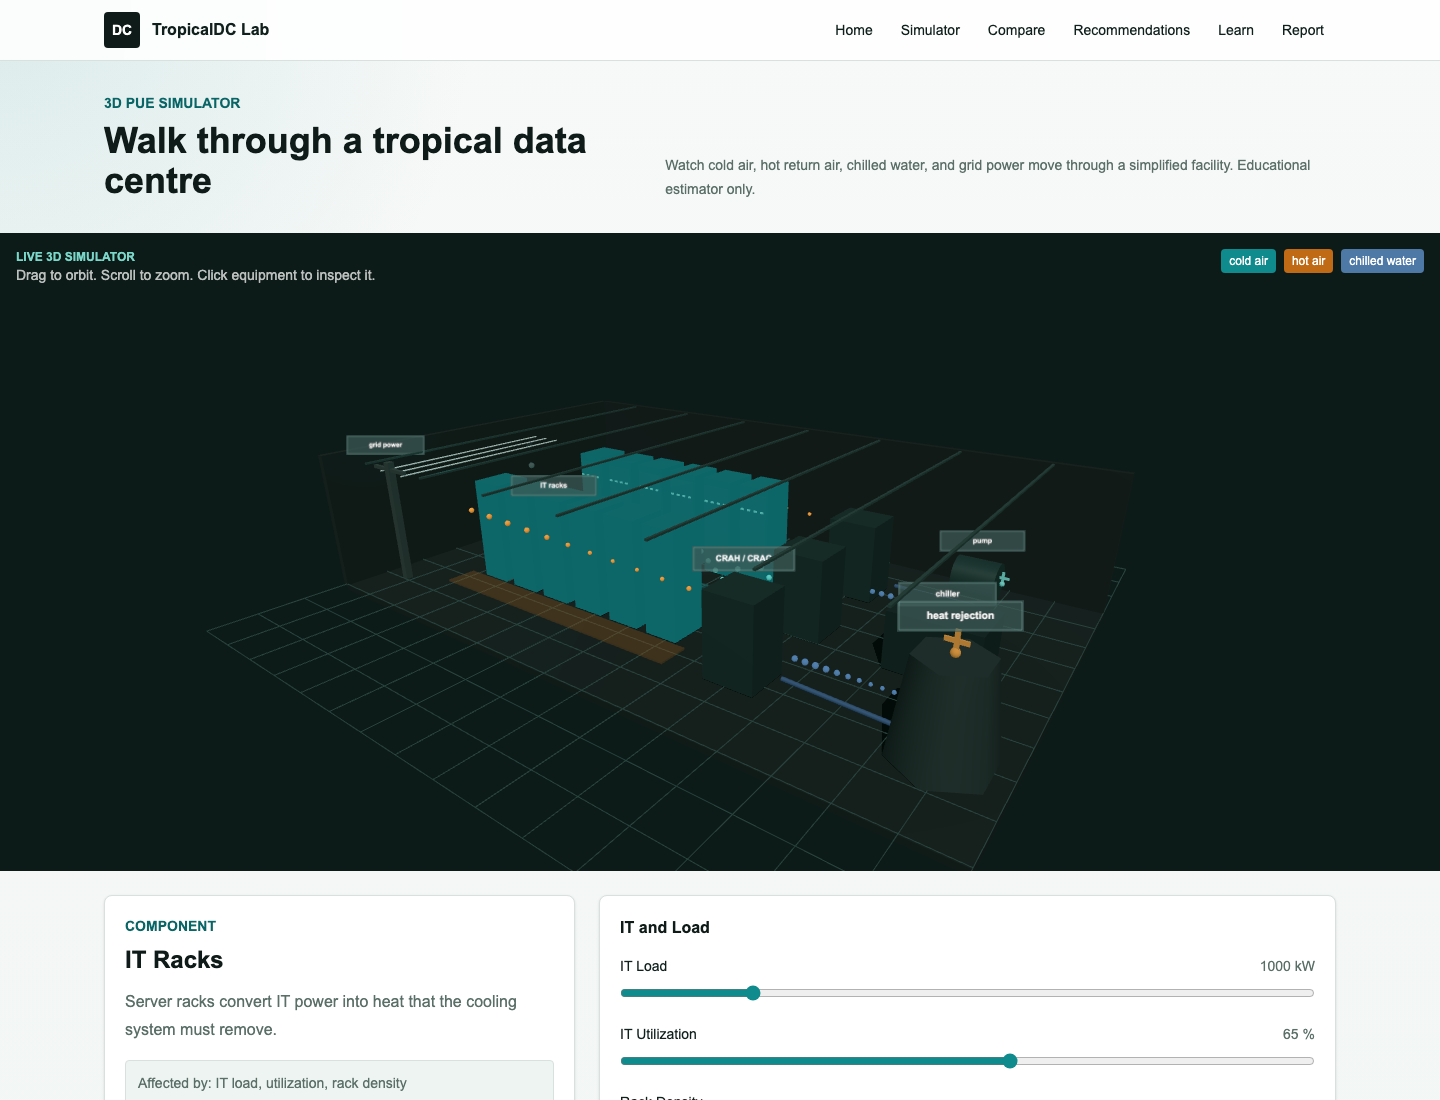
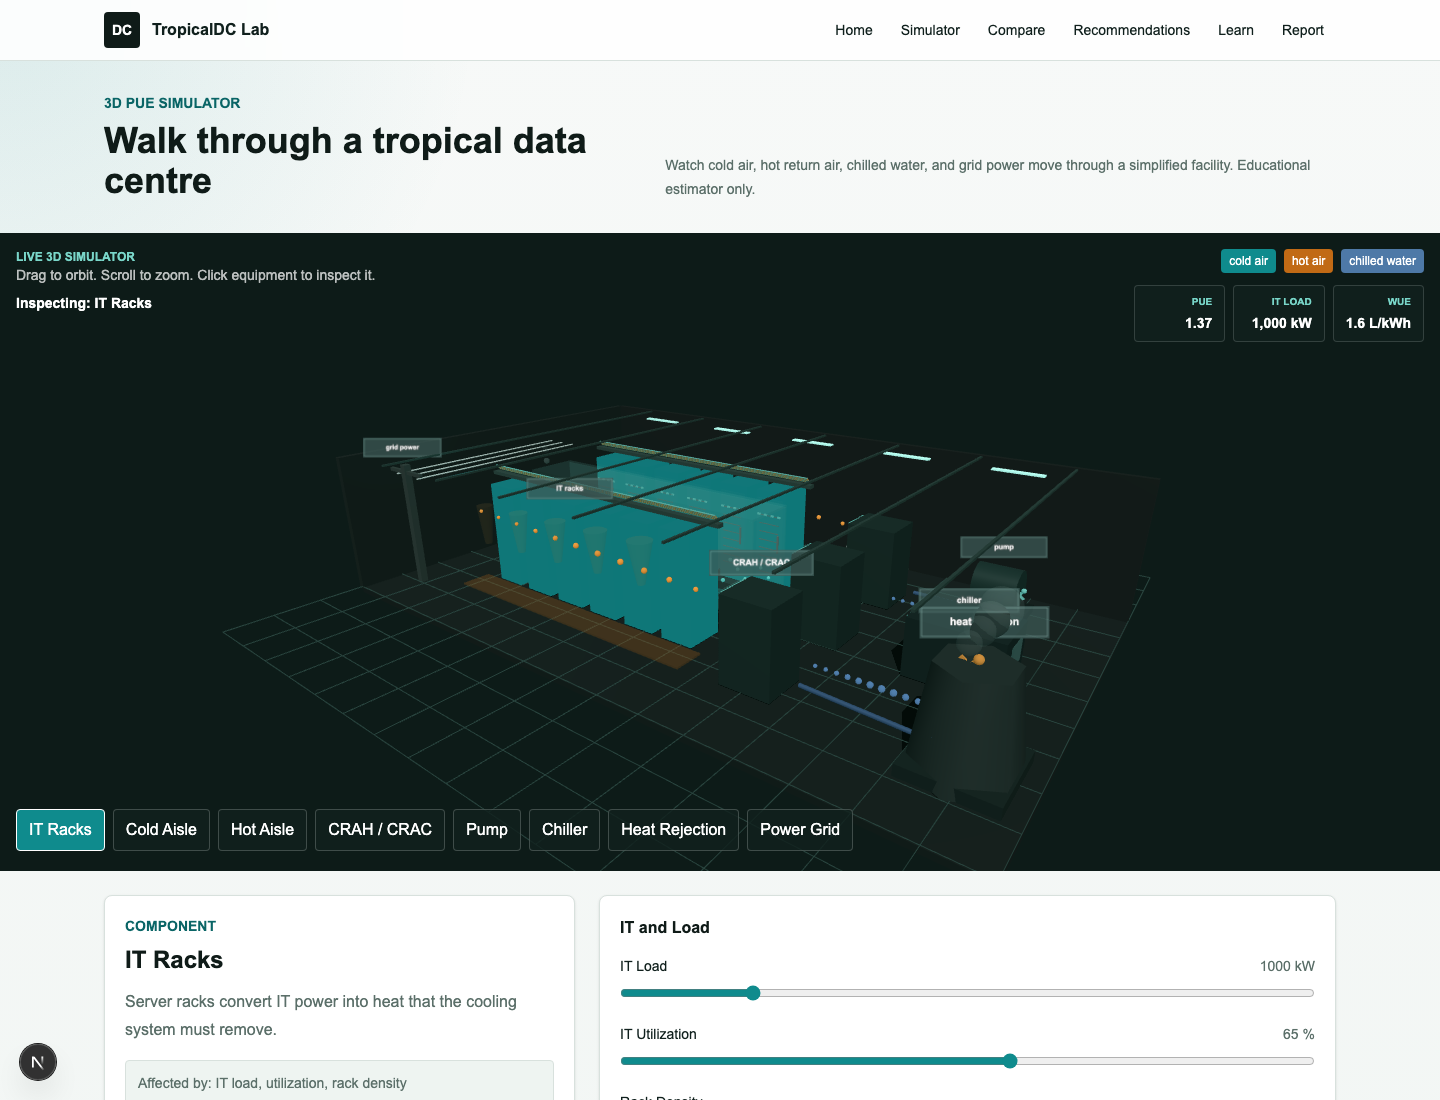
feat: refine 3d simulator experience

diff --git a/components/simulator/DataCenter3DScene.tsx b/components/simulator/DataCenter3DScene.tsx
@@ -3,8 +3,9 @@
 import { useEffect, useRef } from "react";
 import * as THREE from "three";
 import { OrbitControls } from "three/examples/jsm/controls/OrbitControls.js";
+import { formatKw, formatNumber } from "@/lib/format";
 import type { SimulationInputs, SimulationOutputs } from "@/lib/types";
-import type { ComponentKey } from "@/components/simulator/DataCenterSchematic";
+import { schematicComponents, type ComponentKey } from "@/components/simulator/DataCenterSchematic";
 
 interface DataCenter3DSceneProps {
   activeKey: ComponentKey;
@@ -138,6 +139,8 @@ export function DataCenter3DScene({ activeKey, inputs, outputs, onSelect }: Data
     frameCamera();
 
     let lastTime = performance.now() / 1000;
+    let focusedKey = activeKeyRef.current;
+    let focusUntil = lastTime + 0.8;
     let frameId = 0;
 
     const animate = () => {
@@ -146,6 +149,17 @@ export function DataCenter3DScene({ activeKey, inputs, outputs, onSelect }: Data
       lastTime = elapsed;
       const loadRatio = THREE.MathUtils.clamp(inputsRef.current.itLoadKw / 5000, 0.25, 1);
       const puePressure = THREE.MathUtils.clamp(outputsRef.current.pue - 1, 0.15, 0.8);
+
+      if (activeKeyRef.current !== focusedKey) {
+        focusedKey = activeKeyRef.current;
+        focusUntil = elapsed + 1.25;
+      }
+
+      if (elapsed < focusUntil) {
+        const preset = getCameraPreset(focusedKey, mount.clientWidth < 640);
+        camera.position.lerp(preset.position, 0.06);
+        controls.target.lerp(preset.target, 0.08);
+      }
 
       fans.forEach((fan) => {
         fan.rotation.z += delta * (3 + loadRatio * 8);
@@ -216,18 +230,44 @@ export function DataCenter3DScene({ activeKey, inputs, outputs, onSelect }: Data
     };
   }, []);
 
+  const activeComponent = schematicComponents.find((component) => component.key === activeKey) ?? schematicComponents[0];
+
   return (
     <div className="relative overflow-hidden bg-[#0d1b18]">
       <div className="pointer-events-none absolute left-4 right-4 top-4 z-10 flex items-start justify-between gap-3 text-white">
         <div>
           <p className="text-xs font-semibold uppercase text-[#79d6c9]">Live 3D simulator</p>
           <p className="text-sm text-white/72">Drag to orbit. Scroll to zoom. Click equipment to inspect it.</p>
+          <p className="mt-2 text-sm font-semibold text-white">Inspecting: {activeComponent.label}</p>
         </div>
-        <div className="hidden gap-2 text-xs md:flex">
-          <span className="rounded bg-[#0f8b8d] px-2 py-1">cold air</span>
-          <span className="rounded bg-[#c16a15] px-2 py-1">hot air</span>
-          <span className="rounded bg-[#4e79a7] px-2 py-1">chilled water</span>
+        <div className="hidden flex-col items-end gap-3 md:flex">
+          <div className="flex gap-2 text-xs">
+            <span className="rounded bg-[#0f8b8d] px-2 py-1">cold air</span>
+            <span className="rounded bg-[#c16a15] px-2 py-1">hot air</span>
+            <span className="rounded bg-[#4e79a7] px-2 py-1">chilled water</span>
+          </div>
+          <div className="grid grid-cols-3 gap-2 text-right">
+            <SceneMetric label="PUE" value={formatNumber(outputs.pue, 2)} />
+            <SceneMetric label="IT Load" value={formatKw(outputs.itPowerKw)} />
+            <SceneMetric label="WUE" value={`${formatNumber(outputs.wueLitresPerKwh, 1)} L/kWh`} />
+          </div>
         </div>
+      </div>
+      <div className="absolute bottom-4 left-4 right-4 z-10 flex gap-2 overflow-x-auto pb-1">
+        {schematicComponents.map((component) => (
+          <button
+            className={`shrink-0 rounded border px-3 py-2 text-xs font-semibold text-white transition ${
+              activeKey === component.key
+                ? "border-white bg-[var(--accent)]"
+                : "border-white/20 bg-[#10201d]/80 hover:border-white/60"
+            }`}
+            key={component.key}
+            onClick={() => onSelect(component.key)}
+            type="button"
+          >
+            {component.label}
+          </button>
+        ))}
       </div>
       <div
         aria-label="Interactive 3D tropical data centre simulator"
@@ -236,6 +276,54 @@ export function DataCenter3DScene({ activeKey, inputs, outputs, onSelect }: Data
       />
     </div>
   );
+}
+
+function SceneMetric({ label, value }: { label: string; value: string }) {
+  return (
+    <div className="rounded border border-white/15 bg-[#10201d]/80 px-3 py-2">
+      <p className="text-[10px] font-semibold uppercase text-[#79d6c9]">{label}</p>
+      <p className="mt-1 text-sm font-semibold text-white">{value}</p>
+    </div>
+  );
+}
+
+function getCameraPreset(key: ComponentKey, compact: boolean) {
+  const presets: Record<ComponentKey, { position: THREE.Vector3; target: THREE.Vector3 }> = {
+    racks: {
+      position: new THREE.Vector3(7.8, 5.9, compact ? 17 : 11.5),
+      target: new THREE.Vector3(-2.5, 1.35, 0.2),
+    },
+    coldAisle: {
+      position: new THREE.Vector3(4.6, 4.8, compact ? 14 : 8.8),
+      target: new THREE.Vector3(-2.4, 1.15, 0),
+    },
+    hotAisle: {
+      position: new THREE.Vector3(4.4, 5.2, compact ? -13 : -8.6),
+      target: new THREE.Vector3(-2.3, 1.35, -2.45),
+    },
+    crah: {
+      position: new THREE.Vector3(8.2, 4.7, compact ? 10 : 6.2),
+      target: new THREE.Vector3(2.55, 1.05, 0),
+    },
+    pump: {
+      position: new THREE.Vector3(8.6, 4.4, compact ? -8 : -5.2),
+      target: new THREE.Vector3(5.2, 0.9, -2.6),
+    },
+    chiller: {
+      position: new THREE.Vector3(9.4, 4.6, compact ? 4.8 : 2.8),
+      target: new THREE.Vector3(5.4, 0.85, 0),
+    },
+    tower: {
+      position: new THREE.Vector3(9.5, 4.9, compact ? 9 : 5.8),
+      target: new THREE.Vector3(6.4, 1.2, 2.6),
+    },
+    grid: {
+      position: new THREE.Vector3(-1.8, 5.1, compact ? 12 : 8),
+      target: new THREE.Vector3(-6.7, 1.5, 3.4),
+    },
+  };
+
+  return presets[key];
 }
 
 function buildRoom(scene: THREE.Scene) {
@@ -250,6 +338,20 @@ function buildRoom(scene: THREE.Scene) {
   const grid = new THREE.GridHelper(15, 15, 0x6aa69b, 0x28433d);
   grid.position.y = 0.01;
   scene.add(grid);
+
+  const tileMaterial = new THREE.MeshStandardMaterial({ color: 0x213a34, roughness: 0.68, metalness: 0.08 });
+  const ventMaterial = new THREE.MeshStandardMaterial({ color: 0x0f8b8d, emissive: 0x0f8b8d, emissiveIntensity: 0.18 });
+  for (let x = -5.8; x <= 1.8; x += 1.1) {
+    const tile = new THREE.Mesh(new THREE.BoxGeometry(0.86, 0.018, 0.86), tileMaterial.clone());
+    tile.position.set(x, 0.035, 0);
+    scene.add(tile);
+
+    for (let slot = -0.24; slot <= 0.24; slot += 0.16) {
+      const vent = new THREE.Mesh(new THREE.BoxGeometry(0.08, 0.012, 0.54), ventMaterial.clone());
+      vent.position.set(x + slot, 0.052, 0);
+      scene.add(vent);
+    }
+  }
 
   const backWall = new THREE.Mesh(
     new THREE.BoxGeometry(15, 3.2, 0.14),
@@ -276,6 +378,14 @@ function buildRoom(scene: THREE.Scene) {
     rail.position.set(i, 3.15, 0);
     ceilingRails.add(rail);
   }
+  for (let i = -5; i <= 5; i += 2.5) {
+    const light = new THREE.Mesh(
+      new THREE.BoxGeometry(1.1, 0.035, 0.16),
+      new THREE.MeshStandardMaterial({ color: 0xe5fff8, emissive: 0x79d6c9, emissiveIntensity: 0.7 }),
+    );
+    light.position.set(i, 3.08, -3.65);
+    ceilingRails.add(light);
+  }
   scene.add(ceilingRails);
 }
 
@@ -299,6 +409,22 @@ function buildRackRows(scene: THREE.Scene, register: (object: THREE.Object3D, ke
       register(door, "racks");
       rack.add(door);
 
+      for (let slatIndex = 0; slatIndex < 8; slatIndex += 1) {
+        const slat = new THREE.Mesh(
+          new THREE.BoxGeometry(0.52, 0.018, 0.018),
+          new THREE.MeshStandardMaterial({ color: 0x6f8881, emissive: 0x0f8b8d, emissiveIntensity: 0.08 }),
+        );
+        slat.position.set(0, -0.76 + slatIndex * 0.2, z < 0 ? 0.5 : -0.5);
+        rack.add(slat);
+      }
+
+      const handle = new THREE.Mesh(
+        new THREE.BoxGeometry(0.04, 0.42, 0.035),
+        new THREE.MeshStandardMaterial({ color: 0xdbe7e2, roughness: 0.35, metalness: 0.7 }),
+      );
+      handle.position.set(0.26, 0, z < 0 ? 0.52 : -0.52);
+      rack.add(handle);
+
       for (let ledIndex = 0; ledIndex < 4; ledIndex += 1) {
         const led = new THREE.Mesh(new THREE.BoxGeometry(0.08, 0.04, 0.03), ledMaterial.clone());
         led.position.set(-0.27 + ledIndex * 0.18, 0.65, z < 0 ? 0.51 : -0.51);
@@ -307,6 +433,22 @@ function buildRackRows(scene: THREE.Scene, register: (object: THREE.Object3D, ke
 
       rack.position.set(-4.9 + i * 1.05, 1.2, z);
       rackGroup.add(rack);
+    }
+  });
+
+  const trayMaterial = new THREE.MeshStandardMaterial({ color: 0x4c6b63, roughness: 0.45, metalness: 0.35 });
+  [-1.7, 1.7].forEach((z) => {
+    const tray = new THREE.Mesh(new THREE.BoxGeometry(6.8, 0.08, 0.16), trayMaterial.clone());
+    tray.position.set(-2.25, 2.55, z);
+    rackGroup.add(tray);
+    for (let i = 0; i < 7; i += 1) {
+      const cable = new THREE.Mesh(
+        new THREE.CylinderGeometry(0.018, 0.018, 6.6, 8),
+        new THREE.MeshStandardMaterial({ color: i % 2 === 0 ? 0x79d6c9 : 0xf6a94c, roughness: 0.4 }),
+      );
+      cable.rotation.z = Math.PI / 2;
+      cable.position.set(-2.25, 2.63 + i * 0.018, z - 0.05 + i * 0.016);
+      rackGroup.add(cable);
     }
   });
 
@@ -323,6 +465,28 @@ function buildAisles(scene: THREE.Scene, register: (object: THREE.Object3D, key:
   register(cold, "coldAisle");
   scene.add(cold);
 
+  const panelMaterial = new THREE.MeshStandardMaterial({
+    color: 0x79d6c9,
+    emissive: 0x0f8b8d,
+    emissiveIntensity: 0.12,
+    transparent: true,
+    opacity: 0.18,
+    roughness: 0.2,
+    metalness: 0.05,
+  });
+
+  [-0.62, 0.62].forEach((z) => {
+    const panel = new THREE.Mesh(new THREE.BoxGeometry(6.8, 2.15, 0.04), panelMaterial.clone());
+    panel.position.set(-2.25, 1.26, z);
+    register(panel, "coldAisle");
+    scene.add(panel);
+  });
+
+  const canopy = new THREE.Mesh(new THREE.BoxGeometry(6.8, 0.05, 1.28), panelMaterial.clone());
+  canopy.position.set(-2.25, 2.36, 0);
+  register(canopy, "coldAisle");
+  scene.add(canopy);
+
   const hotA = new THREE.Mesh(
     new THREE.BoxGeometry(6.7, 0.04, 0.7),
     new THREE.MeshStandardMaterial({ color: 0xc16a15, emissive: 0xc16a15, emissiveIntensity: 0.2, transparent: true, opacity: 0.34 }),
@@ -336,6 +500,25 @@ function buildAisles(scene: THREE.Scene, register: (object: THREE.Object3D, key:
   hotB.position.z = 2.65;
   register(hotB, "hotAisle");
   scene.add(hotB);
+
+  [-2.72, 2.72].forEach((z) => {
+    for (let i = 0; i < 5; i += 1) {
+      const plume = new THREE.Mesh(
+        new THREE.CylinderGeometry(0.18 + i * 0.02, 0.08, 0.9, 18),
+        new THREE.MeshStandardMaterial({
+          color: 0xf6a94c,
+          emissive: 0xc16a15,
+          emissiveIntensity: 0.18,
+          transparent: true,
+          opacity: 0.12,
+          roughness: 0.8,
+        }),
+      );
+      plume.position.set(-4.8 + i * 1.2, 1.65 + i * 0.05, z);
+      register(plume, "hotAisle");
+      scene.add(plume);
+    }
+  });
 
   scene.add(createLabel("cold aisle", -2.25, 0.32, 0));
   scene.add(createLabel("hot aisles", -5.3, 0.36, -2.65));
@@ -356,6 +539,23 @@ function buildCoolingUnits(
     body.receiveShadow = true;
     register(body, "crah");
     crah.add(body);
+
+    const coil = new THREE.Mesh(
+      new THREE.BoxGeometry(0.05, 1.05, 0.72),
+      new THREE.MeshStandardMaterial({ color: 0x79d6c9, emissive: 0x0f8b8d, emissiveIntensity: 0.22, roughness: 0.35 }),
+    );
+    coil.position.set(-0.59, 0.35, 0);
+    register(coil, "crah");
+    crah.add(coil);
+
+    for (let ventIndex = 0; ventIndex < 5; ventIndex += 1) {
+      const vent = new THREE.Mesh(
+        new THREE.BoxGeometry(0.04, 0.04, 0.72),
+        new THREE.MeshStandardMaterial({ color: 0xdbe7e2, roughness: 0.45, metalness: 0.45 }),
+      );
+      vent.position.set(-0.62, -0.42 + ventIndex * 0.18, 0);
+      crah.add(vent);
+    }
 
     const fan = createFan(fanMaterial.clone());
     fan.position.set(-0.56, 0.28, 0);
@@ -384,6 +584,13 @@ function buildPlant(
   pumpBody.castShadow = true;
   register(pumpBody, "pump");
   pump.add(pumpBody);
+  const pumpBase = new THREE.Mesh(
+    new THREE.BoxGeometry(1.35, 0.16, 0.72),
+    new THREE.MeshStandardMaterial({ color: 0x1a2e29, roughness: 0.55, metalness: 0.25 }),
+  );
+  pumpBase.position.y = -0.48;
+  register(pumpBase, "pump");
+  pump.add(pumpBase);
   const pumpFan = createFan(new THREE.MeshStandardMaterial({ color: 0x91e6d9, emissive: 0x0f8b8d, emissiveIntensity: 0.3 }));
   pumpFan.scale.setScalar(0.7);
   pumpFan.position.set(0.52, 0, 0);
@@ -402,7 +609,33 @@ function buildPlant(
   register(chiller, "chiller");
   scene.add(chiller);
 
+  for (let i = 0; i < 6; i += 1) {
+    const coilLine = new THREE.Mesh(
+      new THREE.BoxGeometry(0.05, 0.82, 0.035),
+      new THREE.MeshStandardMaterial({ color: 0x79d6c9, emissive: 0x0f8b8d, emissiveIntensity: 0.18 }),
+    );
+    coilLine.position.set(4.48, 0.75, -0.42 + i * 0.17);
+    register(coilLine, "chiller");
+    scene.add(coilLine);
+  }
+
+  const controlPanel = new THREE.Mesh(
+    new THREE.BoxGeometry(0.04, 0.42, 0.5),
+    new THREE.MeshStandardMaterial({ color: 0x111f1d, emissive: 0x79d6c9, emissiveIntensity: 0.12 }),
+  );
+  controlPanel.position.set(6.32, 0.78, 0);
+  register(controlPanel, "chiller");
+  scene.add(controlPanel);
+
   const tower = new THREE.Group();
+  const basin = new THREE.Mesh(
+    new THREE.BoxGeometry(1.6, 0.22, 1.6),
+    new THREE.MeshStandardMaterial({ color: 0x203631, roughness: 0.58, metalness: 0.2 }),
+  );
+  basin.position.y = 0.1;
+  register(basin, "tower");
+  tower.add(basin);
+
   const towerBody = new THREE.Mesh(
     new THREE.CylinderGeometry(0.65, 0.9, 1.8, 6),
     new THREE.MeshStandardMaterial({ color: 0x31443f, roughness: 0.55, metalness: 0.2 }),
@@ -415,6 +648,20 @@ function buildPlant(
   topFan.position.y = 1.86;
   fans.push(topFan);
   tower.add(topFan);
+  for (let i = 0; i < 4; i += 1) {
+    const mist = new THREE.Mesh(
+      new THREE.SphereGeometry(0.18 + i * 0.04, 14, 14),
+      new THREE.MeshStandardMaterial({
+        color: 0xdbe7e2,
+        emissive: 0x79d6c9,
+        emissiveIntensity: 0.1,
+        transparent: true,
+        opacity: 0.12,
+      }),
+    );
+    mist.position.set(-0.15 + i * 0.1, 2.1 + i * 0.18, 0.05 - i * 0.08);
+    tower.add(mist);
+  }
   tower.position.set(6.4, 0, 2.6);
   scene.add(tower);
 

diff --git a/tests/e2e/app.spec.ts b/tests/e2e/app.spec.ts
@@ -17,7 +17,11 @@ test("simulator renders the 3D data centre and updates controls", async ({ page 
 
   const itLoad = page.getByLabel("IT Load");
   await itLoad.fill("2500");
-  await expect(page.getByText("2,500 kW")).toBeVisible();
+  await expect(page.getByText("2,500 kW").first()).toBeVisible();
+
+  await page.getByRole("button", { name: "Heat Rejection" }).click();
+  await expect(page.getByRole("heading", { name: "Heat Rejection" })).toBeVisible();
+  await expect(page.getByText("Inspecting: Heat Rejection")).toBeVisible();
 });
 
 test("3D scene renders on mobile viewport", async ({ page }) => {

diff --git a/README.md b/README.md
@@ -12,7 +12,7 @@ Singapore-like tropical operating conditions make data-centre cooling harder. Hi
 
 ## Features
 
-- Interactive 3D PUE simulator with orbit, zoom, animated flows, and selectable cooling assumptions.
+- Interactive 3D PUE simulator with orbit, zoom, guided equipment focus, animated flows, and selectable cooling assumptions.
 - Clickable 3D equipment for racks, aisles, CRAH/CRAC, pumps, chillers, heat rejection, and grid power.
 - Live metric cards for IT load, facility overhead, PUE, WUE, annual energy, carbon, and water.
 - Scenario comparison for baseline air cooling, optimized tropical air cooling, and liquid-cooling-assisted designs.